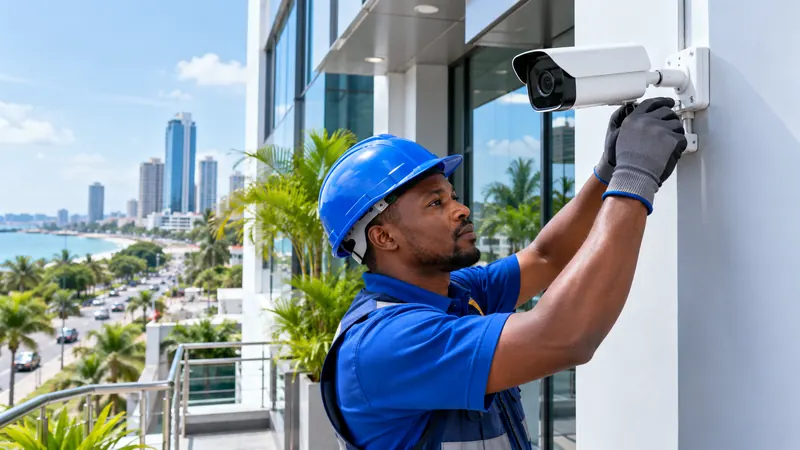
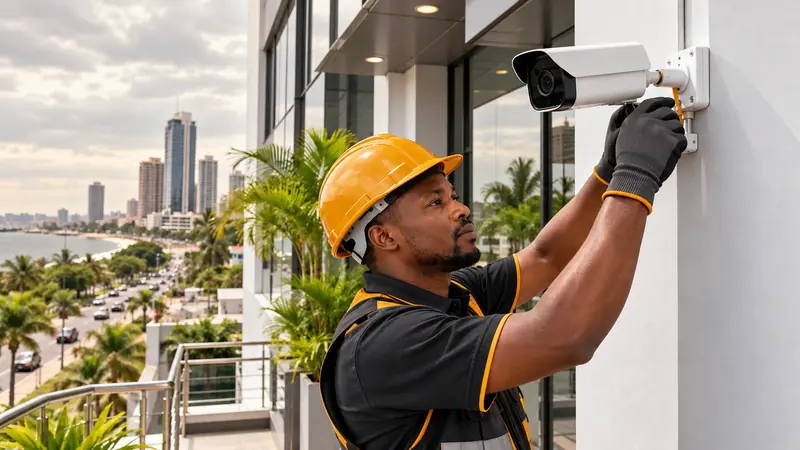
Use amber and charcoal photos; hero intro starts "We bridge"
- Replace all ten service photos with recoloured amber/charcoal versions
  that match the palette (same names and sizes, re-encoded smaller:
  1,351 KB total, down from 1,517 KB)
- Networking photo alt text: blue -> amber Ethernet cables
- Hero intro: "We bridge the digital divide..." (Kiswahili: "Tunaziba pengo...")

diff --git a/index.html b/index.html
@@ -78,7 +78,7 @@
       <div class="container hero__inner">
         <span class="eyebrow eyebrow--light">Spark Innovations</span>
         <h1 class="hero__title"><span data-i18n="hero.title">Technology that</span> <span class="hero__title-accent" data-i18n="hero.title2">empowers everyone.</span></h1>
-        <p class="hero__lead" data-i18n="hero.lead">Tech Foundaz bridges the digital divide with integrated ICT solutions, consultancy, equipment supply, research, incubation and training for organisations, businesses and people across Tanzania.</p>
+        <p class="hero__lead" data-i18n="hero.lead">We bridge the digital divide with integrated ICT solutions, consultancy, equipment supply, research, incubation and training for organisations, businesses and people across Tanzania.</p>
         <div class="hero__actions">
           <a href="#contact" class="btn btn--white" data-i18n="hero.primary">Request a free consultation</a>
           <a href="#services" class="btn btn--outline" data-i18n="hero.secondary">Explore services</a>
@@ -133,7 +133,7 @@
           <h2 class="section-title" data-reveal data-i18n="extras.title">Also available</h2>
           <div class="extras__grid" data-stagger>
             <article class="extra-card">
-              <img src="assets/images/networking-wifi-800.webp" srcset="assets/images/networking-wifi-800.webp 800w, assets/images/networking-wifi-1600.webp 1600w" sizes="(max-width: 700px) 100vw, 400px" width="800" height="450" loading="lazy" alt="Network engineer inspecting a server rack with neatly organised blue Ethernet cables">
+              <img src="assets/images/networking-wifi-800.webp" srcset="assets/images/networking-wifi-800.webp 800w, assets/images/networking-wifi-1600.webp 1600w" sizes="(max-width: 700px) 100vw, 400px" width="800" height="450" loading="lazy" alt="Network engineer inspecting a server rack with neatly organised amber Ethernet cables">
               <div class="extra-card__body">
                 <h3 data-i18n="svc.net">Networking &amp; Wi-Fi</h3>
                 <p data-i18n="svc.net.desc">Structured cabling, routers and office-wide Wi-Fi coverage that stays fast and secure.</p>

diff --git a/assets/js/i18n.js b/assets/js/i18n.js
@@ -23,7 +23,7 @@ window.TF_I18N = {
 
     'hero.title': 'Teknolojia',
     'hero.title2': 'inayomwezesha kila mtu.',
-    'hero.lead': 'Tech Foundaz inaziba pengo la kidijitali kwa suluhisho jumuishi za TEHAMA, ushauri, usambazaji wa vifaa, utafiti, ulezi wa biashara changa na mafunzo kwa taasisi, biashara na watu kote Tanzania.',
+    'hero.lead': 'Tunaziba pengo la kidijitali kwa suluhisho jumuishi za TEHAMA, ushauri, usambazaji wa vifaa, utafiti, ulezi wa biashara changa na mafunzo kwa taasisi, biashara na watu kote Tanzania.',
     'hero.primary': 'Omba ushauri bure',
     'hero.secondary': 'Angalia huduma zetu',
 
